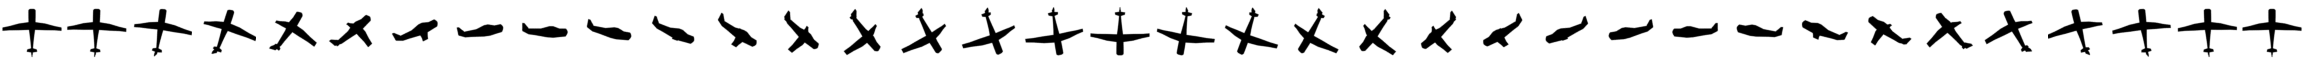
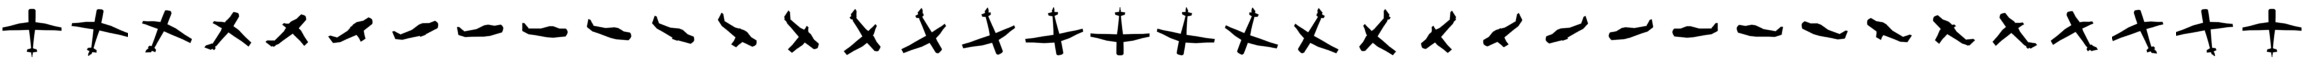
modyfikacja mechaniki i animacji samolotu

Changed region(s): [[0.7812, 0.1562, 0.9688, 0.8438], [0.0312, 0.1562, 0.2188, 0.8438]]

diff --git a/Game2D/Main.cpp b/Game2D/Main.cpp
@@ -25,8 +25,11 @@ int main(int, char**) {
 		std::shared_ptr<Character> character;
 		std::vector<std::shared_ptr<Bullet>> bullet_character_vector;
 		std::vector<std::shared_ptr<Bullet>> bullet_enemy_vector;
+
 		std::vector<std::shared_ptr<Static>> background_vector;
+		std::vector<std::shared_ptr<Static>> second_plan_vector;
 		std::vector<std::shared_ptr<Static>> first_plan_vector;
+
 		std::vector<std::shared_ptr<Enemy>> enemy_vector;
 
 		std::vector<std::vector<std::shared_ptr<Bullet>>::iterator> bullets_character_to_kill;
@@ -34,7 +37,7 @@ int main(int, char**) {
 		std::vector<std::vector<std::shared_ptr<Enemy>>::iterator> enemys_to_kill;
 
 		//Load Map
-		Map::Load("dev.csv", character, first_plan_vector, background_vector, renderer);
+		Map::Load("dev.csv", character, first_plan_vector, second_plan_vector, background_vector, renderer);
 
 		//Statt music
 //		audio->PlayMusic();
@@ -97,6 +100,7 @@ int main(int, char**) {
 				//Update background
 				for (auto& background : background_vector) {
 
+
 					if (abs(background->position.x - character->position.x) > 2*SCREEN_WIDTH) {
 						if (background->position.x - character->position.x > 0) {
 							background->position.x -= 4 * SCREEN_WIDTH;
@@ -108,16 +112,30 @@ int main(int, char**) {
 
 				}
 
-				for (auto& background : first_plan_vector) {
+				for (auto& second_plan : second_plan_vector) {
 
-					background->position.x += 1.f*Gameplay::deltaTime;
+					second_plan->position.x += 40.f*Gameplay::deltaTime;
 
-					if (abs(background->position.x - character->position.x) > 2*SCREEN_WIDTH) {
-						if (background->position.x - character->position.x > 0) {
-							background->position.x -= 4 * SCREEN_WIDTH;
+					if (abs(second_plan->position.x - character->position.x) > 2*SCREEN_WIDTH) {
+						if (second_plan->position.x - character->position.x > 0) {
+							second_plan->position.x -= 4 * SCREEN_WIDTH;
 						}
 						else {
-							background->position.x += 4 * SCREEN_WIDTH;
+							second_plan->position.x += 4 * SCREEN_WIDTH;
+						}
+					}
+				}
+
+				for (auto& first_plan : first_plan_vector) {
+
+					first_plan->position.x += 20.f*Gameplay::deltaTime;
+
+					if (abs(first_plan->position.x - character->position.x) > 2*SCREEN_WIDTH) {
+						if (first_plan->position.x - character->position.x > 0) {
+							first_plan->position.x -= 4 * SCREEN_WIDTH;
+						}
+						else {
+							first_plan->position.x += 4 * SCREEN_WIDTH;
 						}
 					}
 				}
@@ -161,6 +179,12 @@ int main(int, char**) {
 
 			for (auto& bullet : bullet_enemy_vector) {
 				if (bullet->life) bullet->Draw();
+			}
+
+	
+			//Draw second plan
+			for (auto& second_plan : second_plan_vector) {
+				second_plan->Draw();
 			}
 
 			//Draw the player

diff --git a/Game2D/Character.cpp b/Game2D/Character.cpp
@@ -21,7 +21,7 @@ Character::Character(const Vecf2 position, const std::string &file, std::shared_
 	bullet_trigger_base(5),
 	bullet_trigger(5)
 {
-	for (int i = 0; i < 35; i++) {
+	for (int i = 0; i < 36; i++) {
 		clips.push_back(SDL_Rect{ i*2*BLOCK_SIZE, 0, 2 * BLOCK_SIZE, 2 * BLOCK_SIZE });
 	}
 
@@ -47,7 +47,7 @@ void Character::Update(const float deltaTime,
 
 	//Box
 	if (position.y >= WATER_LEVEL + 500 ||
-		position.y <= SKY_LEVEL - 500) velocity.y = 0;
+		position.y <= SKY_LEVEL - 1000) velocity.y = 0;
 
 	//Inputs
 	if (currentInput[Input::Up]) {
@@ -70,6 +70,9 @@ void Character::Update(const float deltaTime,
 	else {
 		engine->useClip = 0;
 		if (Gameplay::start) {
+
+//			velocity = Vecf2{ 0.f,0.f };
+
 			//gravity
 			if (position.y <= 0) velocity.y += 6.f;
 			delta_angle = 6.f;
@@ -101,21 +104,21 @@ void Character::Update(const float deltaTime,
 
 	//Sky
 	if (position.y < SKY_LEVEL)
-		velocity.y -= 2.f*(position.y + SKY_LEVEL);
+		velocity.y -= 1.f*(position.y - SKY_LEVEL);
 
 	//Water
 	if (position.y > WATER_LEVEL) {
-		if (angle < 0) angle += 10.f;
-		if (angle > 0) angle -= 10.f;
+		if (angle > 45.f && angle <= 180.f) angle -= 10.f;
+		if (angle < 315.f && angle > 180.f) angle += 10.f;
+		velocity.y -= 20.f;
 	}
 
-	drawing_angle = angle - std::floorf(angle / 10.9f) * 10.9f;
+	drawing_angle = angle - std::floorf(angle / 10.f) * 10.f;
 
-	useClip = static_cast<int>(std::floorf(angle / 10.9f));
-	if (useClip < 0) useClip = 0;
+	useClip = static_cast<int>(std::floorf(angle / 10.f));
+	if (useClip < 0 || useClip > 35) useClip = 0;
 	
-	printf("%d\n", useClip);
-
+	printf("%f\n", angle);
 
 	position.x += velocity.x*deltaTime;
 	position.y += velocity.y*deltaTime;
@@ -130,7 +133,7 @@ void Character::Update(const float deltaTime,
 
 void Character::Draw()
 {
-	ren->render(this, scale, drawing_angle);
+	ren->render(this, scale, 0);
 	engine->Draw();
 }
 

diff --git a/Game2D/Define.h b/Game2D/Define.h
@@ -19,8 +19,8 @@
 #define g 9.81f 
 
 //Screen attributes
-#define SCREEN_WIDTH 1280
-#define SCREEN_HEIGHT 720
+#define SCREEN_WIDTH 640
+#define SCREEN_HEIGHT 480
 #define BLOCK_SIZE 32
 #define SKY_LEVEL -3000
 #define WATER_LEVEL 0
@@ -42,6 +42,7 @@ namespace Error
 namespace Map {
 	static void Load(const std::string &file, std::shared_ptr<Character> &player,
 		std::vector<std::shared_ptr<Static>> &first_plan_vector,
+		std::vector<std::shared_ptr<Static>> &secodn_plan_vector,
 		std::vector<std::shared_ptr<Static>> &background_vector,
 		std::shared_ptr<Renderer> ren) {
 
@@ -82,7 +83,7 @@ namespace Map {
 					x += 10*BLOCK_SIZE;
 				}
 				if (c == 'c') {
-					background_vector.push_back(std::make_shared<Static>(SDL_Rect{ static_cast<int>(x), static_cast<int>(y),  331,  183 }, "Clouds.png", ren));
+					secodn_plan_vector.push_back(std::make_shared<Static>(SDL_Rect{ static_cast<int>(x), static_cast<int>(y),  331,  183 }, "Clouds.png", ren));
 				}
 			}
 			y -= 10*BLOCK_SIZE;
